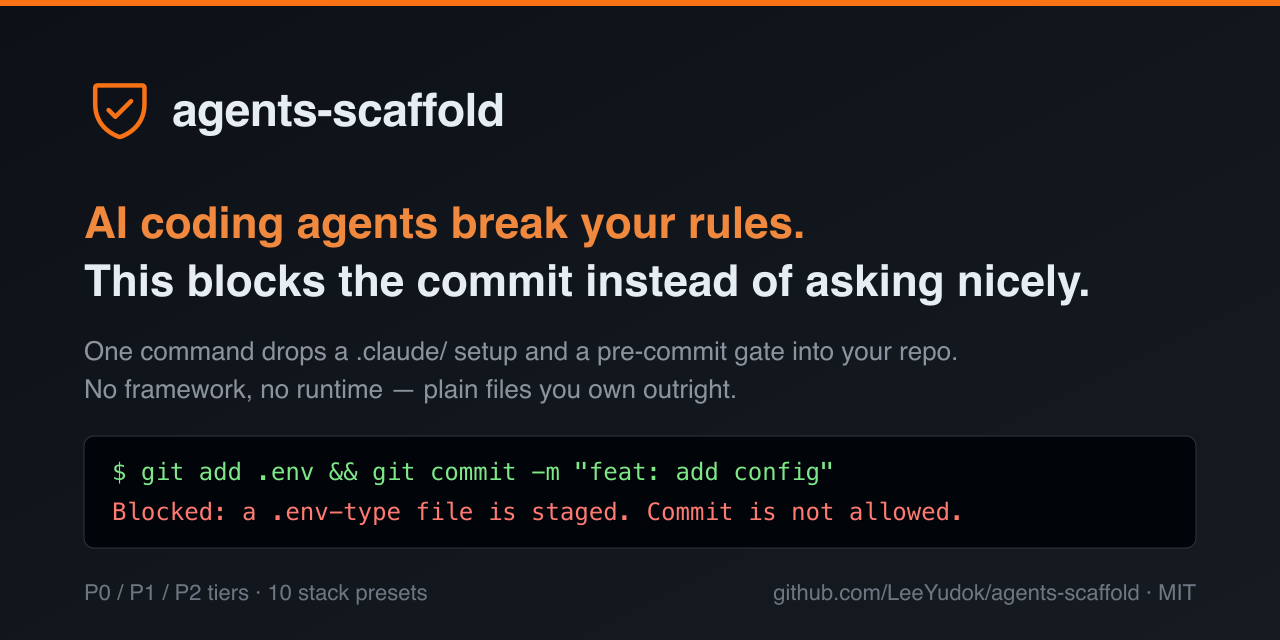
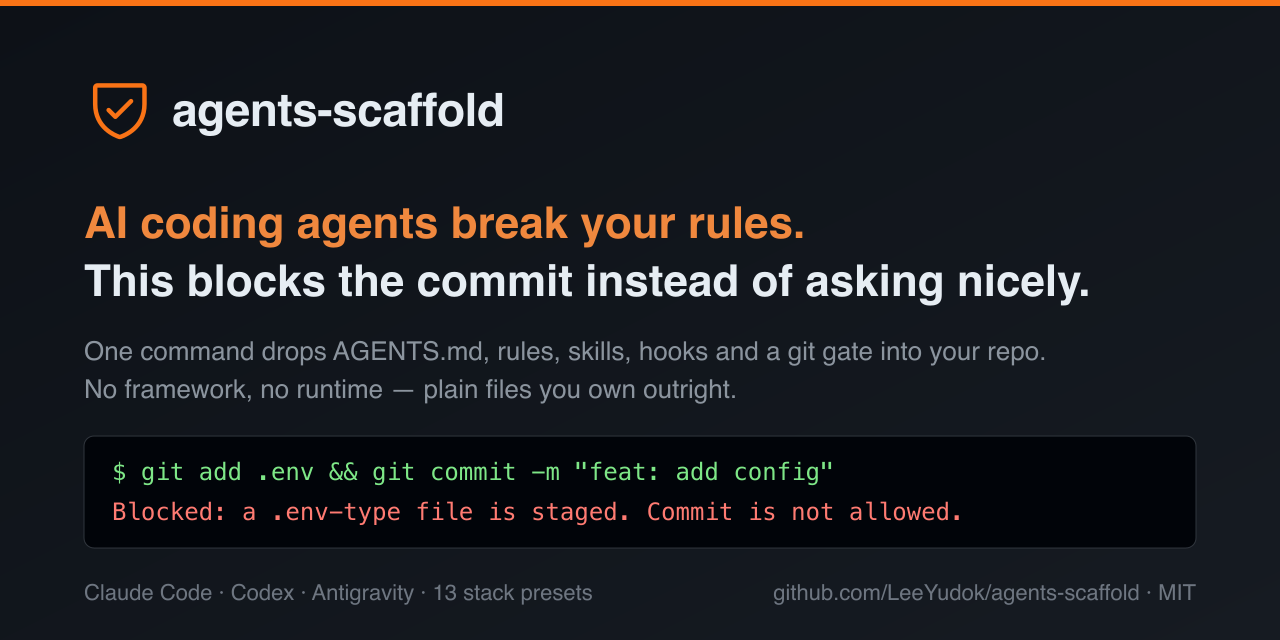
[Claude Opus 5.5] docs: 데모 영상 재녹화·소셜 미리보기 현행화 (#98)
- demo.tape: 없어진 bin/claude-scaffold.sh 대신 bin/agents-scaffold.sh 를 부른다. 장면은 세 가지다.
  명령 한 번(--harness all --stack nextjs) → AGENTS.md·.claude·.codex·.agents 트리 → git commit 이
  실제 .git/hooks/pre-commit 에서 막힌다. 설치 완료 문구를 Wait 로 기다린 뒤 넘어간다. vhs 0.11.0 으로 다시 녹화(30.2초).
- social-preview.svg/png: ".claude/ setup" 을 "AGENTS.md, rules, skills, hooks and a git gate" 로,
  "10 stack presets" 를 "Claude Code · Codex · Antigravity · 13 stack presets" 로 고치고 PNG 를 다시 만들었다.
- README 4종: 영상 alt·캡션을 새 장면에 맞췄다.

Changed region(s): [[0.25, 0.5312, 0.8125, 0.5625], [0.0625, 0.9062, 0.4688, 0.9375]]

diff --git a/README.ko.md b/README.ko.md
@@ -12,9 +12,9 @@ AI 코딩 에이전트는 규칙을 어긴다. 이 도구는 부탁하지 않고
 명령 한 번이면 `AGENTS.md` 프로젝트 브레인, paths 스코프 룰, 스킬, 서브에이전트, 훅, 합성된
 pre-commit 게이트가 레포에 깔린다. 프레임워크도 런타임도 레지스트리도 없다 — 결과물은 전부 **당신이 소유하는 평범한 파일**이다.
 
-![데모: 원커맨드 부트스트랩 → 생성된 .claude/ 트리 → pre-commit 게이트가 .env 커밋을 차단](docs/assets/demo.gif)
+![데모: 명령 한 번으로 Claude Code·Codex·Antigravity 가드레일 설치 → 생성된 AGENTS.md·.claude·.codex·.agents 트리 → 실제 git 훅이 .env 커밋을 차단](docs/assets/demo.gif)
 
-_30초 데모: 명령 한 번 → `.claude/` 완성 → 시크릿 커밋은 게이트가 차단. 재현은 `vhs docs/assets/demo.tape`._
+_30초 데모: 명령 한 번 → `AGENTS.md` 와 Claude Code·Codex·Antigravity 층 → 시크릿 커밋은 실제 git 훅이 차단. 재현은 `vhs docs/assets/demo.tape`._
 
 ## 이런 적 있으면 이 도구다
 

diff --git a/README.md b/README.md
@@ -12,9 +12,9 @@ AI coding agents break your rules. This blocks the commit instead of asking nice
 One command installs an `AGENTS.md` project brain, path-scoped rules, skills, subagents, hooks and a composed
 pre-commit gate into your repo. No framework, no runtime, no registry — **plain files you own outright.**
 
-![Demo: one-command bootstrap, the generated .claude/ tree, and the pre-commit gate blocking a staged .env](docs/assets/demo.gif)
+![Demo: one command installs guardrails for Claude Code, Codex and Antigravity, the generated AGENTS.md/.claude/.codex/.agents tree, and the real git hook blocking a staged .env](docs/assets/demo.gif)
 
-_30-second demo: one command → a filled `.claude/` → the gate blocks a secret commit. Reproduce with `vhs docs/assets/demo.tape`._
+_30-second demo: one command → `AGENTS.md` plus Claude Code, Codex and Antigravity layers → the real git hook blocks a secret commit. Reproduce with `vhs docs/assets/demo.tape`._
 
 ## You want this if
 
